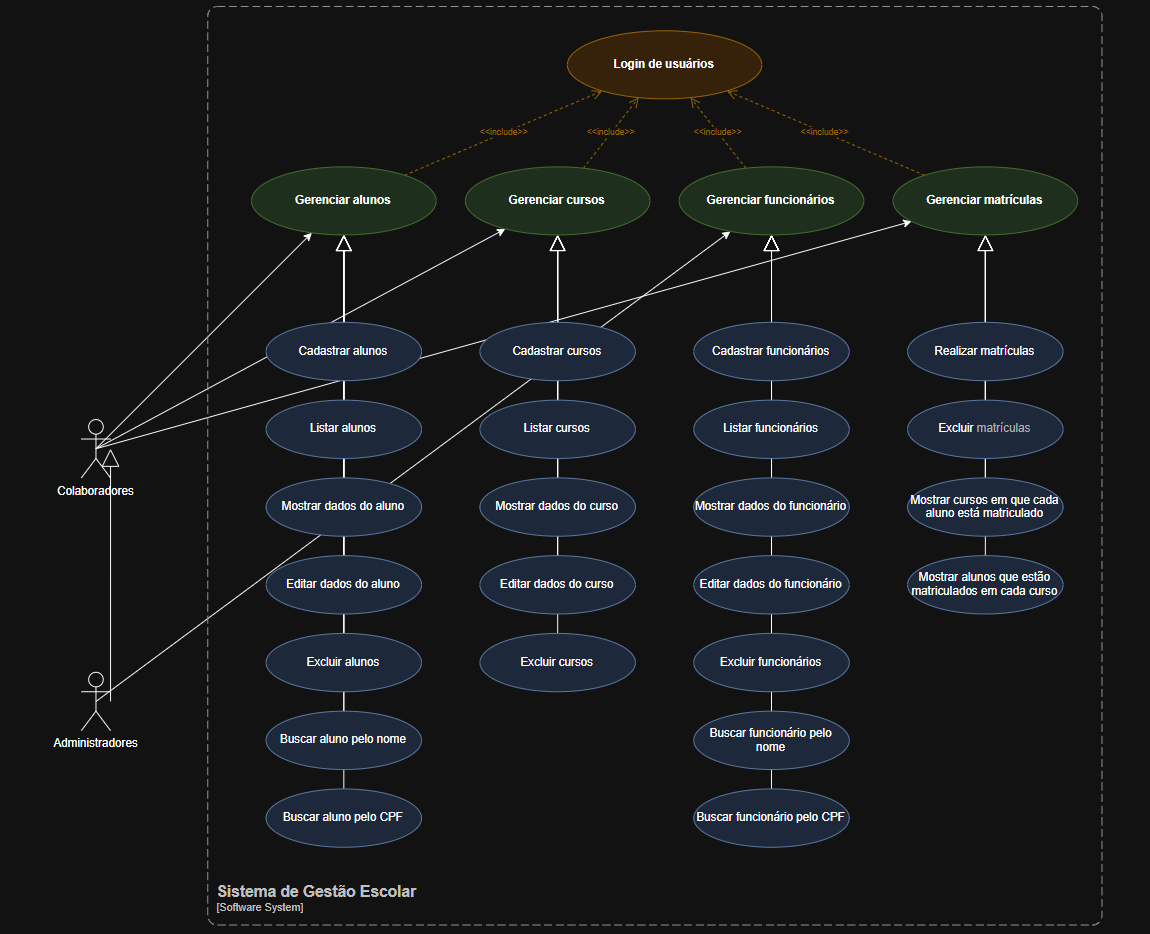
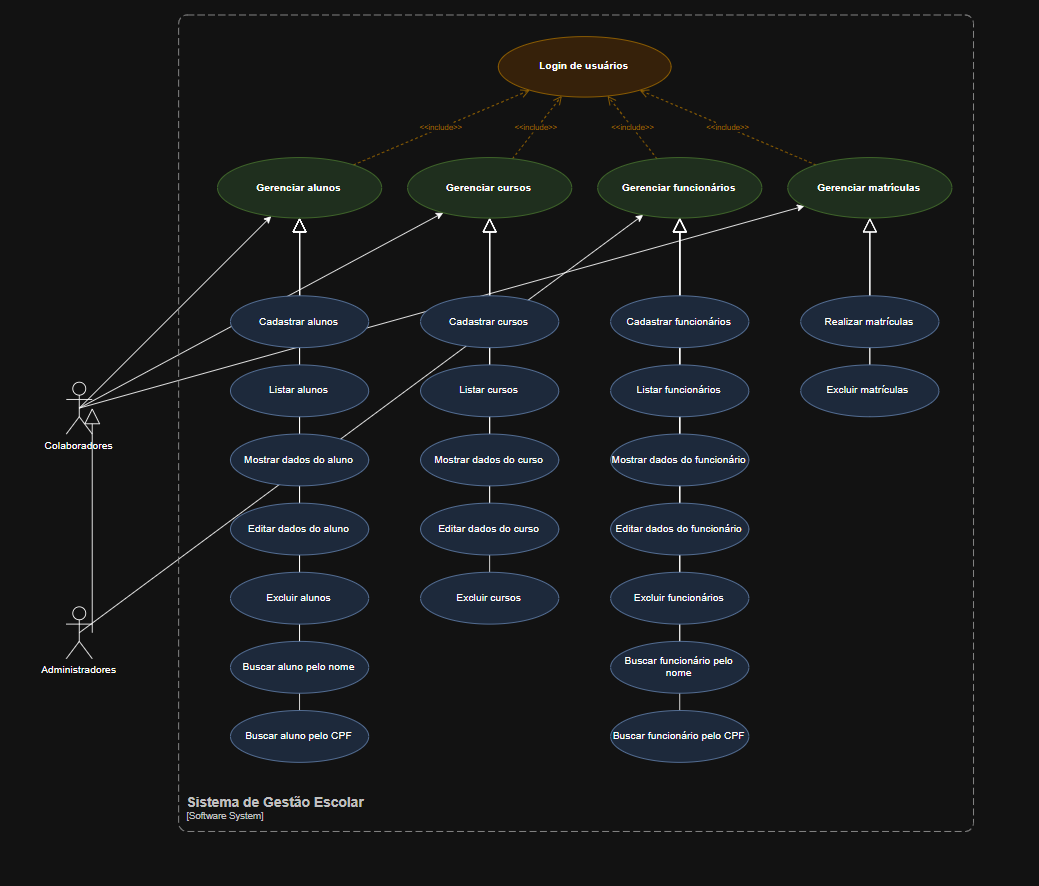
terminando diagrama de classes, atualizando diagrama de casos de uso

diff --git a/README.md b/README.md
@@ -76,3 +76,6 @@
 
 ## CASOS DE USO:
   ![Casos de uso](images/diagrama-casos-de-uso.png)
+
+## Classes:
+  ![Classes](images/diagrama-classes.png)
